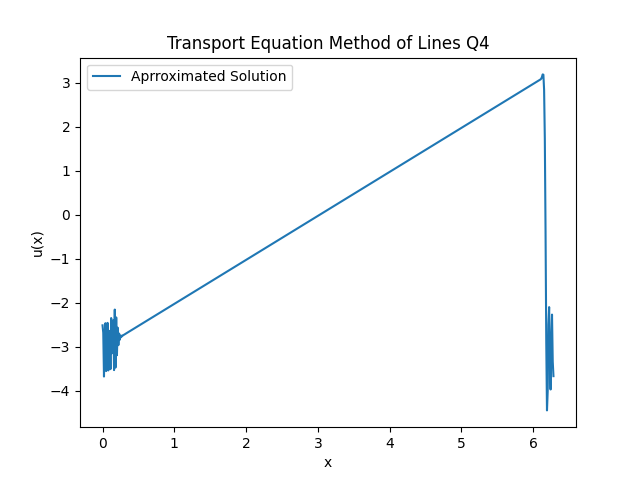
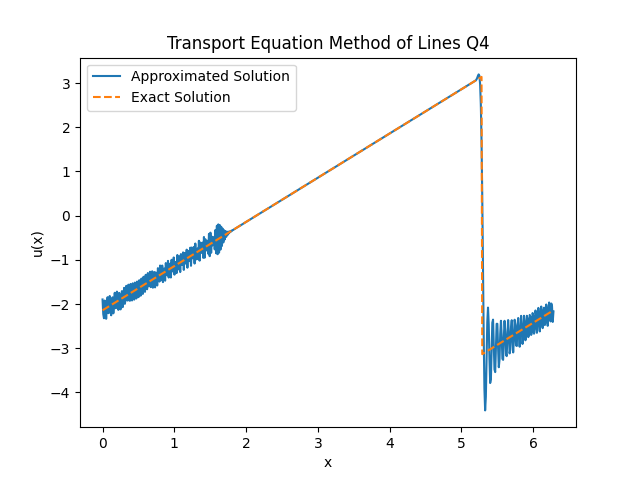
added exact solution comparison to second order wave

diff --git a/finite-difference-methods/call_methods.py b/finite-difference-methods/call_methods.py
@@ -1,3 +1,4 @@
+from numpy.lib.type_check import nan_to_num
 import heat_eq
 import transport_eq
 import viscid_burgers
@@ -23,7 +24,7 @@ def pickle_sol(filename, pickle_dir, direction: str, solution=None):
         raise ValueError('Invalid Direction')
 
 
-def graph_sol(scheme, tlist, approx_sol, x_axis_a, x_axis_e=None, t2=None, exact=None, save_dir=None):
+def graph_sol(title, scheme, t, approx_sol, x_axis_a, x_axis_e=None, t2=None, other_sols=None, other_sol_name=None, save_dir=None):
         '''
         Displays graph of approximated soluton vs exact solution at timestep t
         :param scheme: Name of scheme used, just used for the title of the plot
@@ -32,14 +33,14 @@ def graph_sol(scheme, tlist, approx_sol, x_axis_a, x_axis_e=None, t2=None, exact
         :return: A matplotlib plot should appear
         '''
 
-        for t in tlist:
-            y_axis_a = approx_sol[t]
-            plt.plot(x_axis_a, y_axis_a, label='Aprroximated Solution Time Step ' + str(t))
-        if exact is not None:
-            plt.plot(x_axis_e, exact[t2], label='Exact Solution')
+        y_axis_a = approx_sol[t]
+        plt.plot(x_axis_a, y_axis_a.T, label=scheme)
+        if other_sols is not None:
+            for i, other_sol in enumerate(other_sols):
+                plt.plot(x_axis_e[i], other_sol[t2[i]], linestyle='dashed', label=other_sol_name[i])
         plt.ylabel("u(x)")
         plt.xlabel("x")
-        plt.title(scheme)
+        plt.title(title)
         plt.legend()
         if save_dir:
             plt.savefig(save_dir, format='png')
@@ -82,40 +83,118 @@ def call_multiple_iterable(eq, h_arr, k_arr, scheme, tf, f, t0=0, x0=0, xf=2*np.
 def main():
     def f_heat(x):
         return x - np.pi
-        
+    def f_exact_transport(t, x):
+        return (x+t)%(2*np.pi) - np.pi 
+
     def f_transport(t, x):
         if (0 <=  x + t <= np.pi):
             return x + t
         else:
             return 2*np.pi - x - t
     
-    #init_model = heat_eq.Solve_Heat_Eq(1/500, 1/750000, 2, f_heat)
-    #exact= init_model.Crank_Nicolson()
+    def f_wave(t, x):
+        return np.sin(x + t)
 
-    model = second_order_wave.Solve_Second_Order_Wave(1/100, 1/200, 1, np.sin, np.cos, 1)
+    #init_model = heat_eq.Solve_Heat_Eq(1/100, 1/300, 2, f_heat)
+    #exact= init_model.Crank_Nicolson()
+    #model = heat_eq.Solve_Heat_Eq(1/100, 1/30000, 2, f_heat)
+    #df = model.Dufort_Frankel()
+    #be = model.Backward_Euler()
+    #fe = model.Forward_Euler()
+    #cn = model.Crank_Nicolson()
+
+    gdir = 'Example_Solution_Graphs/'
+    #graph_sol(r'Solutions for $\frac{k}{h^{2}} = \frac{1}{3}$', "Dufort_Frankel", 60000-1, df, model.x_axis, x_axis_e=[model.x_axis, model.x_axis, model.x_axis], t2=[60000-1, 60000-1, 60000-1], other_sols=[be, cn, fe], other_sol_name=["Backward Euler", "Crank Nicholson", "Forward Euler"], save_dir=gdir + "HEhk2.png")
+    #graph_sol(r'$\frac{k}{h^{2}} = \frac{1}{3}$', "Backward Euler", [60000-1], be, model.x_axis, save_dir=gdir + "BE30000.png")
+    #graph_sol(r'$\frac{k}{h^{2}} = \frac{1}{3}$',"Crank Nicolson", [60000-1], cn, model.x_axis, save_dir=gdir + "CN30000.png")
+    #graph_sol(r'$\frac{k}{h^{2}} = \frac{1}{3}$',"Dufort Frankel", [60000-1], df, model.x_axis, save_dir=gdir + "DF30000.png")
+    #graph_sol(r'$\frac{k}{h^{2}} = \frac{1}{3}$',"Forward Eueler", [60000-1], fe, model.x_axis, save_dir=gdir + "FE30000.png")
+    #graph_sol("Forward Euler", [600-1], be, model.x_axis, x_axis_e=model.x_axis, t2=600-1, exact=exact)#, save_dir=gdir + "FEK30KPickled.png")
+
+    #print("Dufort norm: {}".format(np.linalg.norm(df[6000-1]-exact[6000-1], 2)))
+    #print("Backward Euler norm: {}".format(np.linalg.norm(be[6000-1]-exact[6000-1], 2)))
+
+    '''
+    model1 = heat_eq.Solve_Heat_Eq(1/100, 1/3000, 2, f_heat)
+    df1 = model1.Dufort_Frankel()
+    be1 = model1.Backward_Euler()
+
+    graph_sol("Dufort_Frankel", [6000-1], df1, model.x_axis, x_axis_e=model1.x_axis, t2=6000-1, exact=exact)#, save_dir=gdir + "FEK30KPickled.png")
+    graph_sol("Backward_Euler", [6000-1], be1, model.x_axis, x_axis_e=model1.x_axis, t2=6000-1, exact=exact)#, save_dir=gdir + "FEK30KPickled.png")
+    print("Dufort norm: {}".format(np.linalg.norm(df[600-1]-exact[600-1], 2)))
+    print("Backward Euler norm: {}".format(np.linalg.norm(be[599]-exact[599], 2)))
+
+    model = heat_eq.Solve_Heat_Eq(1/100, 1/30000, 2, f_heat)
+    df = model.Dufort_Frankel()
+    be = model.Backward_Euler()
+
+    graph_sol("Dufort_Frankel", [600-1], df, model.x_axis, x_axis_e=model.x_axis, t2=60000-1, exact=exact)#, save_dir=gdir + "FEK30KPickled.png")
+    graph_sol("Backward_Euler", [600-1], be, model.x_axis, x_axis_e=model.x_axis, t2=60000-1, exact=exact)
+    graph_sol("Forward_Euler", [600-1], be, model.x_axis, x_axis_e=model.x_axis, t2=60000-1, exact=exact)#, save_dir=gdir + "FEK30KPickled.png")
+    print("Dufort norm: {}".format(np.linalg.norm(df[600-1]-exact[600-1], 2)))
+    print("Backward Euler norm: {}".format(np.linalg.norm(be[599]-exact[599], 2)))
+    '''
+    '''
+    model1 = heat_eq.Solve_Heat_Eq(1/100, 1/30000, 2, f_heat)
+    fe1 = model1.Forward_Euler()
+    df1 = model1.Dufort_Frankel()
+    be1 = model1.Backward_Euler()
+
+    model2 = heat_eq.Solve_Heat_Eq(1/100, 1/3000, 2, f_heat)
+    fe2 = model2.Forward_Euler()
+    df2 = model2.Dufort_Frankel()
+    be2 = model2.Backward_Euler()
+    '''
+
+    #pickle_sol('EXACT', 'Pickled_Solutions/', 'in', exact)
+    
+    #model = second_order_wave.Solve_Second_Order_Wave(1/100, 1/50, 1, np.sin, np.cos, 1, exact=f_wave)
+    #approx1 = model.Newmark()
+    #model.get_exact()
+    #exact = model.exact_sol
     #approx = model.Newmark()
-    approx = pickle_sol('NMk=200.pickle', 'Pickled_Solutions/', 'out')
-    plt.plot(model.x_axis, approx[199])
-    plt.show()
+    #approx1 = pickle_sol('NMk=200.pickle', 'Pickled_Solutions/', 'out')
+    #print("Newmark norm: {}".format(np.linalg.norm(approx1[49]-exact[49], 2)))
+    #print("Leapfrog norm: {}".format(np.linalg.norm(approx2[49]-exact[49], 2)))
+    #plt.plot(model.x_axis, approx1[49], label='Newmark Method')
+    #plt.plot(model.x_axis, approx2[49], label='Leap Frog Method')
+    #plt.plot(model.x_axis, exact[49], linestyle='dashed', label='Exact Solution')
+
+    #plt.ylabel('u(x)')
+    #plt.xlabel('x')
+    #plt.legend()
+    #plt.title(r"Second Order Wave Soluions T=1, $\frac{k}{h} = 2$")
+     
+    #diff1 = np.abs(approx1 - exact)
+    #diff2 = np.abs(approx2 - exact)
+    #plt.plot(model.x_axis, diff1[199])
+    #plt.plot(model.x_axis, diff2[199])
+    #plt.show()
 
     #model = heat_eq.Solve_Heat_Eq(1/100, 1/30000, 2, f_heat)
     #approx = model.Forward_Euler()
     #pickle_sol('FEk=30k', 'Pickled_Solutions/', 'in', approx)
     #exact = pickle_sol('BEk=30k', 'Pickled_Solutions/', 'out')
     #approx = pickle_sol('FEk=30k', 'Pickled_Solutions/', 'out')
-    #gdir = 'Example_Solution_Graphs/'
-    #graph_sol("Forward_Euler", [60000-1], approx, model.x_axis, x_axis_e=model.x_axis, t2=60000-1, exact=exact, save_dir=gdir + "FEK30KPickled.png")
+    #
+    #graph_sol("Forward_Euler", [60000-1], approx, model.x_axis, x_axis_e=model.x_axis, t2=60000-1)#, exact=exact), save_dir=gdir + "FEK30KPickled.png")
     
-    #model = viscid_burgers.Solve_Viscid_Burgers(1/100, 1/300, 50, f_heat, 0.005)
-    #approx = model.Fully_Implicit()
-    #gdir = 'Example_Solution_Graphs/'
-    #graph_sol("Viscid Burgers Fully Implicit", 1500-1, approx, model.x_axis, save_dir=gdir + 'VBFIT50ETASMALL.png')
-    '''
-    model = transport_eq.Solve_Transport_Eq(1/100, 1/300, 1, f_heat)
-    approx = model.method_of_lines(4)
+    model = viscid_burgers.Solve_Viscid_Burgers(1/100, 1/300, 50, f_heat, 0.005)
+   # approx1= model.Fully_Implicit()
+    approx2= model.Semi_Implicit()
     gdir = 'Example_Solution_Graphs/'
-    graph_sol("Transport Equation Method of Lines Q4", 299, approx, model.x_axis, save_dir=gdir + 'TEMOLT1Q4.png')
-
+    plt.plot(model.t_axis, np.linalg.norm(approx2, axis=1))
+    plt.show()
+    #graph_sol(r"Viscid Burgers $\eta=0.005$", "Fully Implicit", 15000-1, approx1, model.x_axis, save_dir=gdir + 'VBFIT50ETAVERYSMALLFULLY.png')
+    #graph_sol(r"Viscid Burgers $\eta=0.005$", "Semi Implicit", 15000-1, approx2, model.x_axis, save_dir=gdir + 'VBFIT50ETAVERYSMALLSEMI.png')
+    #graph_sol(r"Viscid Burgers $\eta=1$", "Fully Implicit", 15000-1, approx1, model.x_axis, x_axis_e=[model.x_axis], t2=[15000-1], other_sols=[approx2], other_sol_name=["Semi Implicit"], save_dir=gdir + 'VBFIT50ETASMALL.png')
+    '''
+    model = transport_eq.Solve_Transport_Eq(1/100, 1/300, 1, f_heat, sol_f=f_exact_transport)
+    model.exact()
+    approx = model.method_of_lines(6)
+    gdir = 'Example_Solution_Graphs/'
+    graph_sol("Transport Equation Method of Lines Q6", "Approximated Solution", 299, approx, model.x_axis, x_axis_e=[model.x_axis], t2=[299], other_sols=[model.exact_sol], other_sol_name=["Exact Solution"], save_dir=gdir + 'TEMOLT1Q6.png')
+    
     model = second_order_wave.Solve_Second_Order_Wave(1/100, 1/200, 1, np.sin, np.cos, 1)
     approx = model.Leap_Frog()
     plt.plot(model.x_axis, approx[199])

diff --git a/finite-difference-methods/heat_eq.py b/finite-difference-methods/heat_eq.py
@@ -43,7 +43,6 @@ class Solve_Heat_Eq:
         op_mat = np.linalg.inv(op_mat)
         for n in range(self.time_steps - 1):
             v[n+1, :] = np.matmul(op_mat, v[n, :])
-        
         return v
 
     def Crank_Nicolson(self):
@@ -100,23 +99,30 @@ class Solve_Heat_Eq:
             v[n+1, 0] = v[n,0] + self.sig*(v[n, 1] - 2*v[n, 0] + v[n, self.space_steps - 1])
             l = self.space_steps - 1
             v[n+1, l] = v[n,l] + self.sig*(v[n, 0] - 2*v[n, l] + v[n, l-1])
-
+            #print("time step: {}, val: {}, v_l: {}, v_mid: {}, v_right: {}".format(n, self.sig*(v[n, 0] - 2*v[n, l] + v[n, l-1]), v[n, l-1], v[n, l], v[n, 0]))
             for j in range(1, self.space_steps - 2):
                 v[n+1, j] = v[n, j] + self.sig*(v[n, j+1] - 2*v[n, j] + v[n, j-1])
+            
         return v
 
     def Dufort_Frankel(self):
         v = np.zeros([self.time_steps, self.space_steps])
         v[0, :] = self.initial
-        for n in range(0, self.time_steps - 1):
+        v[1, 0] = v[0,0] + (1/3)*(v[0, 1] - 2*v[0, 0] + v[0, self.space_steps - 1])
+        l = self.space_steps - 1
+        v[1, l] = v[0,l] + (1/3)*(v[0, 0] - 2*v[0, l] + v[0, l-1])
+        for j in range(1, self.space_steps - 2):
+            v[1, j] = v[0, j] + self.sig*(v[0, j+1] - 2*v[0, j] + v[0, j-1])
+
+        for n in range(1, self.time_steps - 1):
             #Left and right end points
             nmin1_coeff = (1 - 2*self.sig) / (1 + 2 * self.sig)
             ncoeff = (2*self.sig) / (1 + 2 * self.sig)
 
             v[n+1, 0] = nmin1_coeff*v[n - 1, 0] + ncoeff*(v[n, 1] + v[n, self.space_steps - 1])
-            v[n+1, self.space_steps - 1] = nmin1_coeff*v[n - 1, self.space_steps - 1] + ncoeff*(v[n, 0] + v[n, self.space_steps - 1])
+            v[n+1, self.space_steps - 1] = nmin1_coeff*v[n - 1, self.space_steps - 1] + ncoeff*(v[n, 0] + v[n, self.space_steps - 2])
 
-            for j in range(1, self.space_steps - 1):
+            for j in range(1, self.space_steps - 2):
                 v[n+1, j] = nmin1_coeff*v[n - 1, j] + ncoeff*(v[n, j+1] + v[n, j-1])
             
         return v

diff --git a/finite-difference-methods/transport_eq.py b/finite-difference-methods/transport_eq.py
@@ -3,7 +3,7 @@ import matplotlib.pyplot as plt
 
 class Solve_Transport_Eq:
     
-    def __init__(self, h, k, tf, f, t0=0, x0=0, xf=2*np.pi):
+    def __init__(self, h, k, tf, f, sol_f=None, t0=0, x0=0, xf=2*np.pi):
         
         self.h = h
         self.k = k
@@ -15,13 +15,14 @@ class Solve_Transport_Eq:
         self.CFL = k/h
         self.initial = [f(x) for x in self.x_axis]
         self.exact_sol = np.zeros([self.time_steps, self.space_steps])
+        self.sol_f = sol_f
         #self.exact()
 
     def exact(self):
         #compute exact solution
         for n in range(self.time_steps):
             for j in range(self.space_steps):
-                self.exact_sol[n,j] = self.f(self.t_axis[n], self.x_axis[j])
+                self.exact_sol[n,j] = self.sol_f(self.t_axis[n], self.x_axis[j])
         
     
     def upwind(self):
@@ -171,6 +172,7 @@ class Solve_Transport_Eq:
                 else:
                     A[n, n+1], A[n, n+2], A[n, n+3] = 45, -9, 1
                     A[n, n-1], A[n, n-2], A[n, n-3] = -45, 9, -1
+            A = 1/(60*self.h) * A
         elif q_num == 4:
             for n in range(self.space_steps):
                 if n == 0:
@@ -188,7 +190,7 @@ class Solve_Transport_Eq:
                 else:
                     A[n, n+1], A[n, n+2] = 8, -1
                     A[n, n-1], A[n, n-2] = -8, 1
-                    
+            A = 1/(12*self.h) * A
         #4 Stage Runge-Kutta
         for n in range(self.time_steps-1):
             m1 = self.k * np.matmul(A, w[n, :])

diff --git a/finite-difference-methods/viscid_burgers.py b/finite-difference-methods/viscid_burgers.py
@@ -1,4 +1,5 @@
 import numpy as np
+import time
 
 class Solve_Viscid_Burgers:
     def __init__(self, h, k, tf, f, eta, t0=0, x0=0, xf=2*np.pi):
@@ -27,6 +28,7 @@ class Solve_Viscid_Burgers:
         cof = self.eta * self.sig
         half_lam = self.k / (2 * self.h)
 
+        ti = time.perf_counter()
         for t in range(self.time_steps - 1):
             op_mat = np.zeros([self.space_steps, self.space_steps])
             for n in range(self.space_steps):
@@ -45,10 +47,12 @@ class Solve_Viscid_Burgers:
             op_mat = np.linalg.inv(op_mat)
 
             v[t+1, :] = np.matmul(op_mat, v[t, :])
-        
+        tf = time.perf_counter()
+        print(f"Fully Implicit Time: {ti - tf:0.4f}")
         return v
 
     def Semi_Implicit(self):
+        
         cof = self.eta * self.sig
         half_lam = self.k / (2 * self.h)
 
@@ -58,6 +62,7 @@ class Solve_Viscid_Burgers:
         v[0, :] = self.initial
 
         #Fill out and invert operations matrix
+        ti = time.perf_counter()
         for n in range(self.space_steps):
             if n == 0:
                 op_mat[n, 1] = op_mat[n, self.space_steps - 1] = -cof
@@ -79,5 +84,6 @@ class Solve_Viscid_Burgers:
                     r = v[t, j] + half_lam * v[t, j] * (v[t, j+1] - v[t, j-1])
                 right[j] = r
             v[t+1, :] = np.matmul(op_mat, right)
-
+        tf = time.perf_counter()
+        print(f"Semi Implicit Time: {ti - tf:0.4f}")
         return v

diff --git a/finite-difference-methods/second_order_wave.py b/finite-difference-methods/second_order_wave.py
@@ -2,11 +2,13 @@ import numpy as np
 
 class Solve_Second_Order_Wave:
 
-    def __init__(self, h, k, tf, f, g, c, t0=0, x0=0, xf=2*np.pi):
+    def __init__(self, h, k, tf, f, g, c, t0=0, x0=0, xf=2*np.pi, exact=None):
         self.h = h
         self.k = k
         self.f = f
+        self.g = g
         self.c = c
+        self.exact = exact
         self.time_steps = round((tf - t0) / k)
         self.space_steps = round((xf - x0) / h)
         self.x_axis = np.linspace(x0, xf, self.space_steps)
@@ -14,12 +16,17 @@ class Solve_Second_Order_Wave:
         self.initialf = np.array([f(x) for x in self.x_axis])
         self.initialg = np.array([g(x) for x in self.x_axis])
         self.exact_sol = np.zeros([self.time_steps, self.space_steps])
-    
+
+    def get_exact(self):
+        #compute exact solution
+        for n in range(self.time_steps):
+            for j in range(self.space_steps):
+                self.exact_sol[n,j] = self.exact(self.t_axis[n], self.x_axis[j])
+
     def Leap_Frog(self):
-        coef = (self.h**2 * self.c **2)/(self.h**2)
+        coef = (self.k**2 * self.c **2)/(self.h**2)
         v = np.zeros([self.time_steps, self.space_steps])
         v[0, :] = self.initialf
-        print(self.initialg)
         v[1, :] = self.initialf + self.k * self.initialg
         for n in range(1, self.time_steps - 1):
             #Left and right end points
